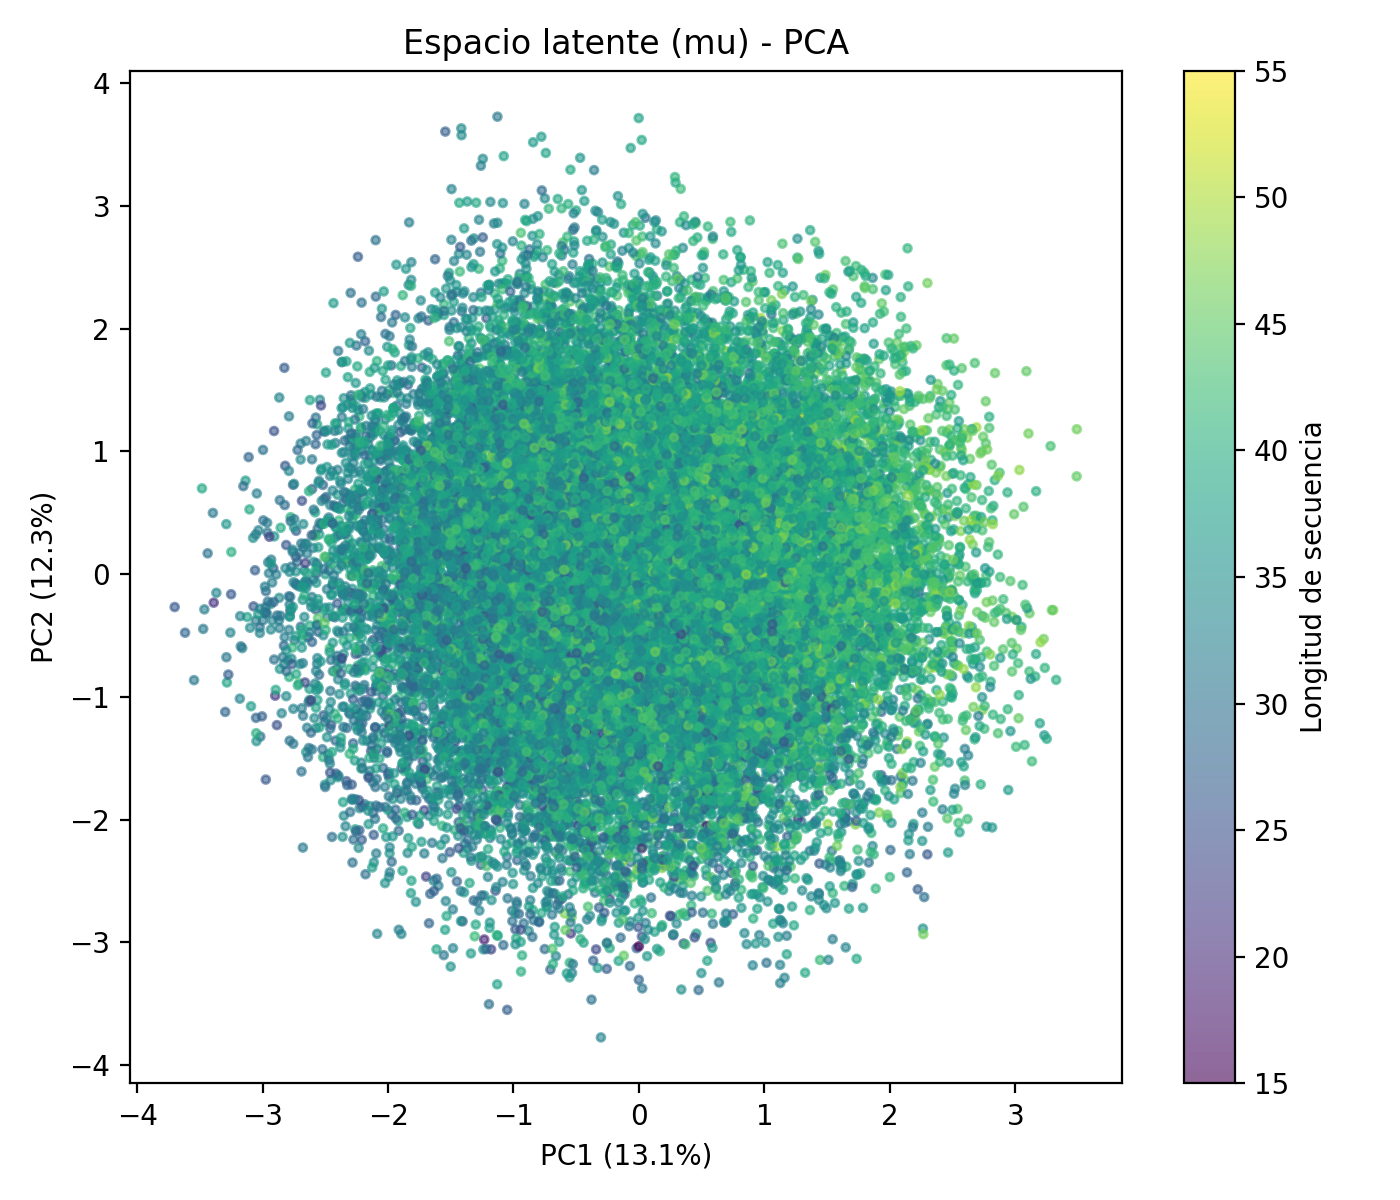
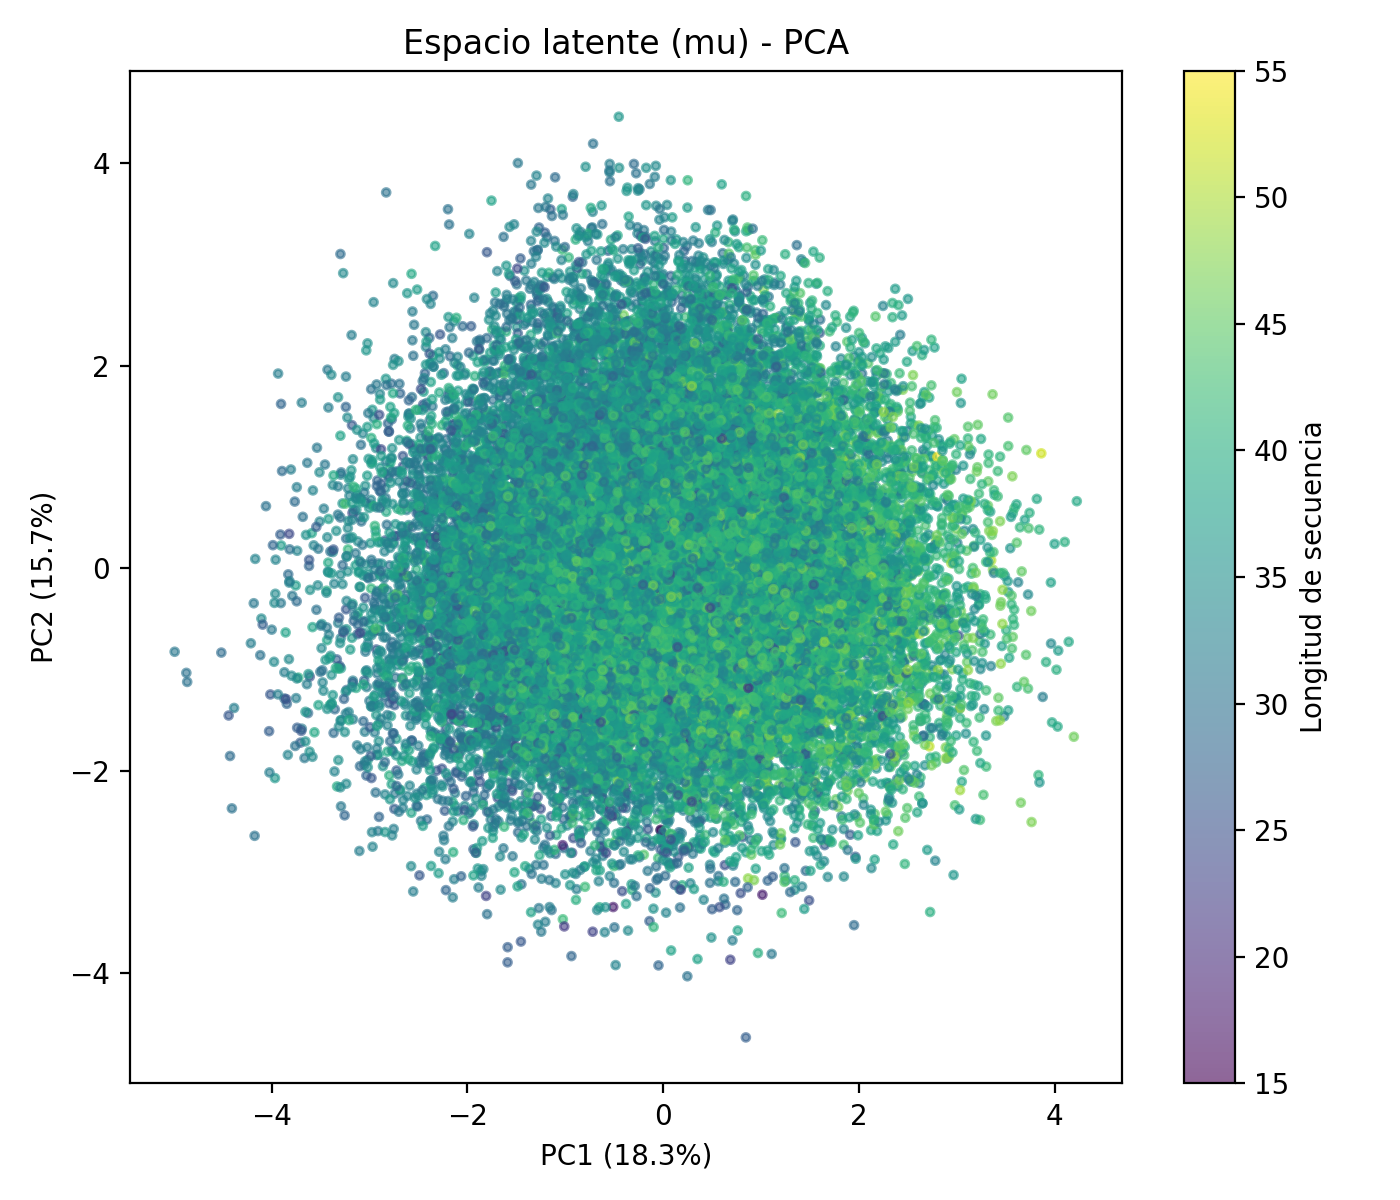
Refactor and enhance VAE project structure
- Removed `latent_viz.py` from `src/` and added it to `src/scripts/` with updated functionality.
- Updated `train.py` to increase epochs and adjust latent and hidden dimensions.
- Introduced `analisis_resultados.py` for comparative analysis of generated molecules against MOSES dataset.
- Added `data_prep.py` for downloading and processing MOSES dataset into a usable format.
- Created `data_prepSelfies.py` for handling SELFIES format molecules.
- Implemented `eval_moses.py` for evaluating generated molecules using MOSES metrics.
- Developed `generate.py` for generating new molecules from the VAE model.

diff --git a/src/scripts/analisis_resultados.py b/src/scripts/analisis_resultados.py
@@ -1,7 +1,6 @@
 import os
 import sys
 from typing import Dict, Sequence, Tuple
-
 import matplotlib.pyplot as plt
 import pandas as pd
 import seaborn as sns
@@ -14,9 +13,9 @@ from rdkit.Chem import Descriptors, QED, RDConfig
 sys.path.append(os.path.join(RDConfig.RDContribDir, 'SA_Score'))
 import sascorer  # pyright: ignore[reportMissingImports]
 
-# Directorio raíz del proyecto (un nivel arriba de src/)
-ROOT_DIR = os.path.dirname(os.path.dirname(os.path.abspath(__file__)))
-sys.path.insert(0, os.path.dirname(os.path.abspath(__file__)))
+# Directorio raíz del proyecto (dos niveles arriba de src/scripts/)
+ROOT_DIR = os.path.dirname(os.path.dirname(os.path.dirname(os.path.abspath(__file__))))
+sys.path.insert(0, os.path.dirname(os.path.dirname(os.path.abspath(__file__))))
 
 # Importar arquitectura del VAE
 from vae_model import MolecularVAE

diff --git a/src/scripts/data_prepSelfies.py b/src/scripts/data_prepSelfies.py
@@ -5,13 +5,13 @@ from tqdm import tqdm
 import os
 import urllib.request
 
-# Directorio raíz del proyecto (un nivel arriba de src/)
-ROOT_DIR = os.path.dirname(os.path.dirname(os.path.abspath(__file__)))
+# Directorio raíz del proyecto (dos niveles arriba de src/scripts/)
+ROOT_DIR = os.path.dirname(os.path.dirname(os.path.dirname(os.path.abspath(__file__))))
 
 # config para MOSES
 DATA_URL = "https://media.githubusercontent.com/media/molecularsets/moses/master/data/dataset_v1.csv"
-FILENAME = os.path.join(ROOT_DIR, "data", "moses.csv")
-PROCESSED_FILE = os.path.join(ROOT_DIR, "data", "moses_processed.pt")
+FILENAME = os.path.join(ROOT_DIR, "data", "mosesSELFIES.csv")
+PROCESSED_FILE = os.path.join(ROOT_DIR, "data", "mosesSELFIES_processed.pt")
 MAX_LEN = 60
 
 def get_data():

diff --git a/src/scripts/data_prep.py b/src/scripts/data_prep.py
@@ -5,13 +5,13 @@ from tqdm import tqdm
 import os
 import urllib.request
 
-# Directorio raíz del proyecto (un nivel arriba de src/)
-ROOT_DIR = os.path.dirname(os.path.dirname(os.path.abspath(__file__)))
+# Directorio raíz del proyecto (dos niveles arriba de src/scripts/)
+ROOT_DIR = os.path.dirname(os.path.dirname(os.path.dirname(os.path.abspath(__file__))))
 
 # config para MOSES
 DATA_URL = "https://media.githubusercontent.com/media/molecularsets/moses/master/data/dataset_v1.csv"
-FILENAME = os.path.join(ROOT_DIR, "data", "moses.csv")
-PROCESSED_FILE = os.path.join(ROOT_DIR, "data", "moses_processed.pt")
+FILENAME = os.path.join(ROOT_DIR, "data", "mosesSMILES.csv")
+PROCESSED_FILE = os.path.join(ROOT_DIR, "data", "mosesSMILES_processed.pt")
 MAX_LEN = 60
 
 def get_data():

diff --git a/src/train.py b/src/train.py
@@ -14,14 +14,14 @@ sys.path.insert(0, os.path.dirname(os.path.abspath(__file__)))
 
 # --- config ---
 BATCH_SIZE = 128       # Tamaño del batch
-EPOCHS = 50           # Número total de epochs
+EPOCHS = 100           # Número total de epochs
 LEARNING_RATE = 1e-3  # Tasa de aprendizaje
-LATENT_DIM = 128      
-HIDDEN_DIM = 128      
+LATENT_DIM = 256      
+HIDDEN_DIM = LATENT_DIM
 EMBED_DIM = 128       
 KL_START = 0
 KL_END = 0.3      
-KL_ANNEAL_EPOCHS = 17  # Número de epochs para hacer annealing
+KL_ANNEAL_EPOCHS = int(EPOCHS * 0.25)  # Número de epochs para hacer annealing
 
 # Paths y dispositivo
 DEVICE = torch.device("cuda" if torch.cuda.is_available() else "cpu")

diff --git a/src/scripts/latent_viz.py b/src/scripts/latent_viz.py
@@ -5,9 +5,9 @@ import torch
 from torch.utils.data import DataLoader, TensorDataset
 import matplotlib.pyplot as plt
 
-# Directorio raíz del proyecto (un nivel arriba de src/)
-ROOT_DIR = os.path.dirname(os.path.dirname(os.path.abspath(__file__)))
-sys.path.insert(0, os.path.dirname(os.path.abspath(__file__)))
+# Directorio raíz del proyecto (dos niveles arriba de src/scripts/)
+ROOT_DIR = os.path.dirname(os.path.dirname(os.path.dirname(os.path.abspath(__file__))))
+sys.path.insert(0, os.path.dirname(os.path.dirname(os.path.abspath(__file__))))
 
 from vae_model import MolecularVAE
 

diff --git a/src/scripts/generate.py b/src/scripts/generate.py
@@ -6,9 +6,9 @@ from rdkit import RDLogger
 import os
 import sys
 
-# Directorio raíz del proyecto (un nivel arriba de src/)
-ROOT_DIR = os.path.dirname(os.path.dirname(os.path.abspath(__file__)))
-sys.path.insert(0, os.path.dirname(os.path.abspath(__file__)))
+# Directorio raíz del proyecto (dos niveles arriba de src/scripts/)
+ROOT_DIR = os.path.dirname(os.path.dirname(os.path.dirname(os.path.abspath(__file__))))
+sys.path.insert(0, os.path.dirname(os.path.dirname(os.path.abspath(__file__))))
 
 # Importar tu arquitectura definida en vae_model.py
 from vae_model import MolecularVAE

diff --git a/src/scripts/eval_moses.py b/src/scripts/eval_moses.py
@@ -11,8 +11,8 @@ import moses.metrics.metrics as metrics_module
 import numpy as np
 from scipy.spatial.distance import cosine
 
-# Directorio raíz del proyecto (un nivel arriba de src/)
-ROOT_DIR = os.path.dirname(os.path.dirname(os.path.abspath(__file__)))
+# Directorio raíz del proyecto (dos niveles arriba de src/scripts/)
+ROOT_DIR = os.path.dirname(os.path.dirname(os.path.dirname(os.path.abspath(__file__))))
 
 # Parche temporal para corregir el overflow de float32 en moses/scipy
 def safe_cos_distance(u, v):
